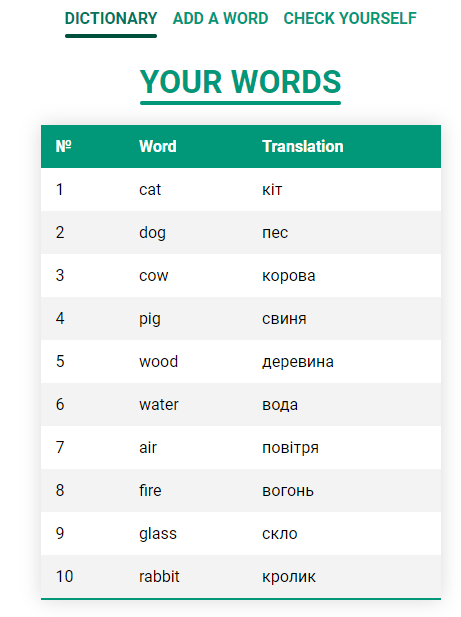
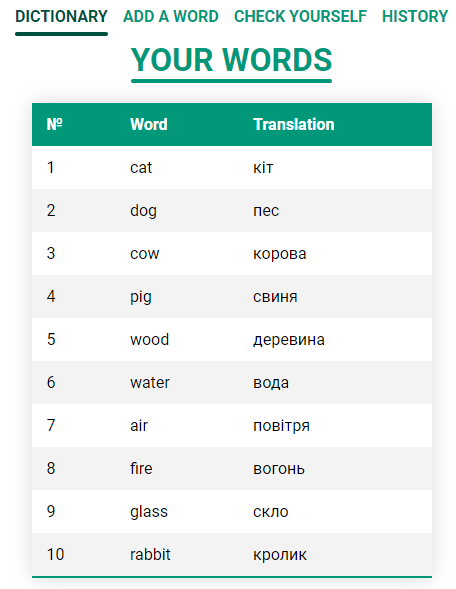
ReadMe updated

diff --git a/README.md b/README.md
@@ -4,7 +4,7 @@
 
 The main idea is that the user enters some words and their translation, 
 the user enters a certain number of words into the dictionary 
-and then can check whether he remembers them.
+and then can check whether he remembers them. Also, you can see your test history.
 
 [DEMO LINK](https://twoandmore.github.io/word-learning/)
 
